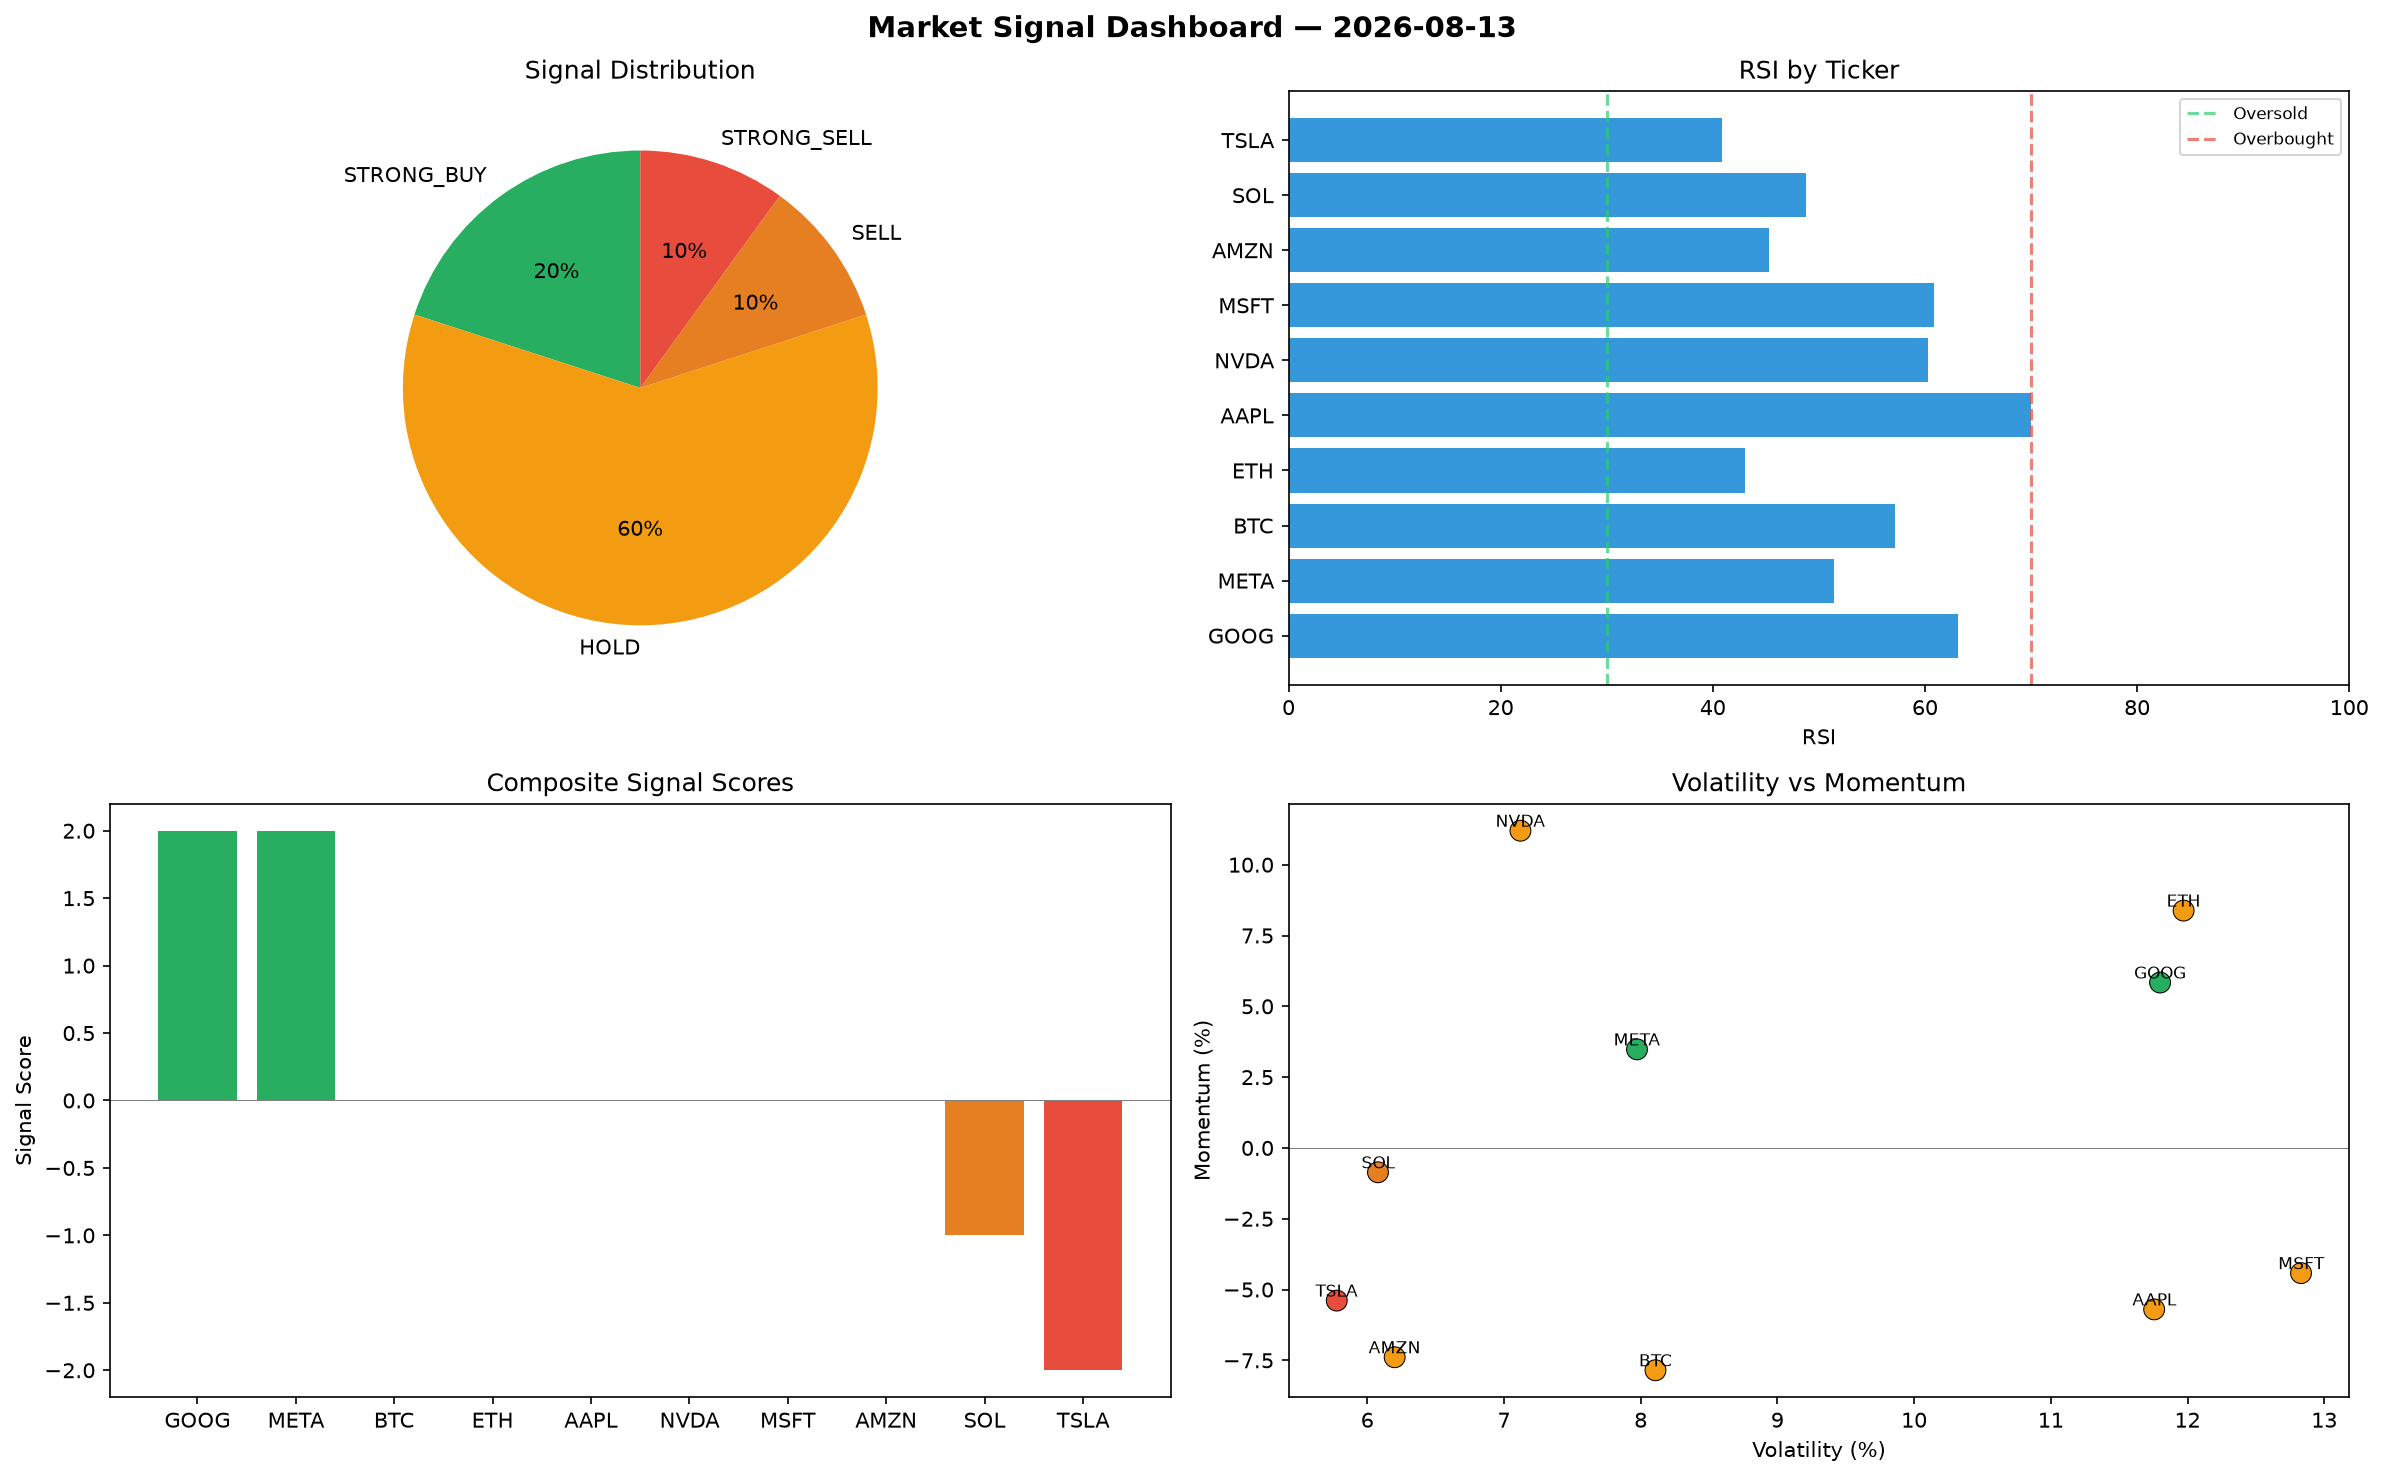
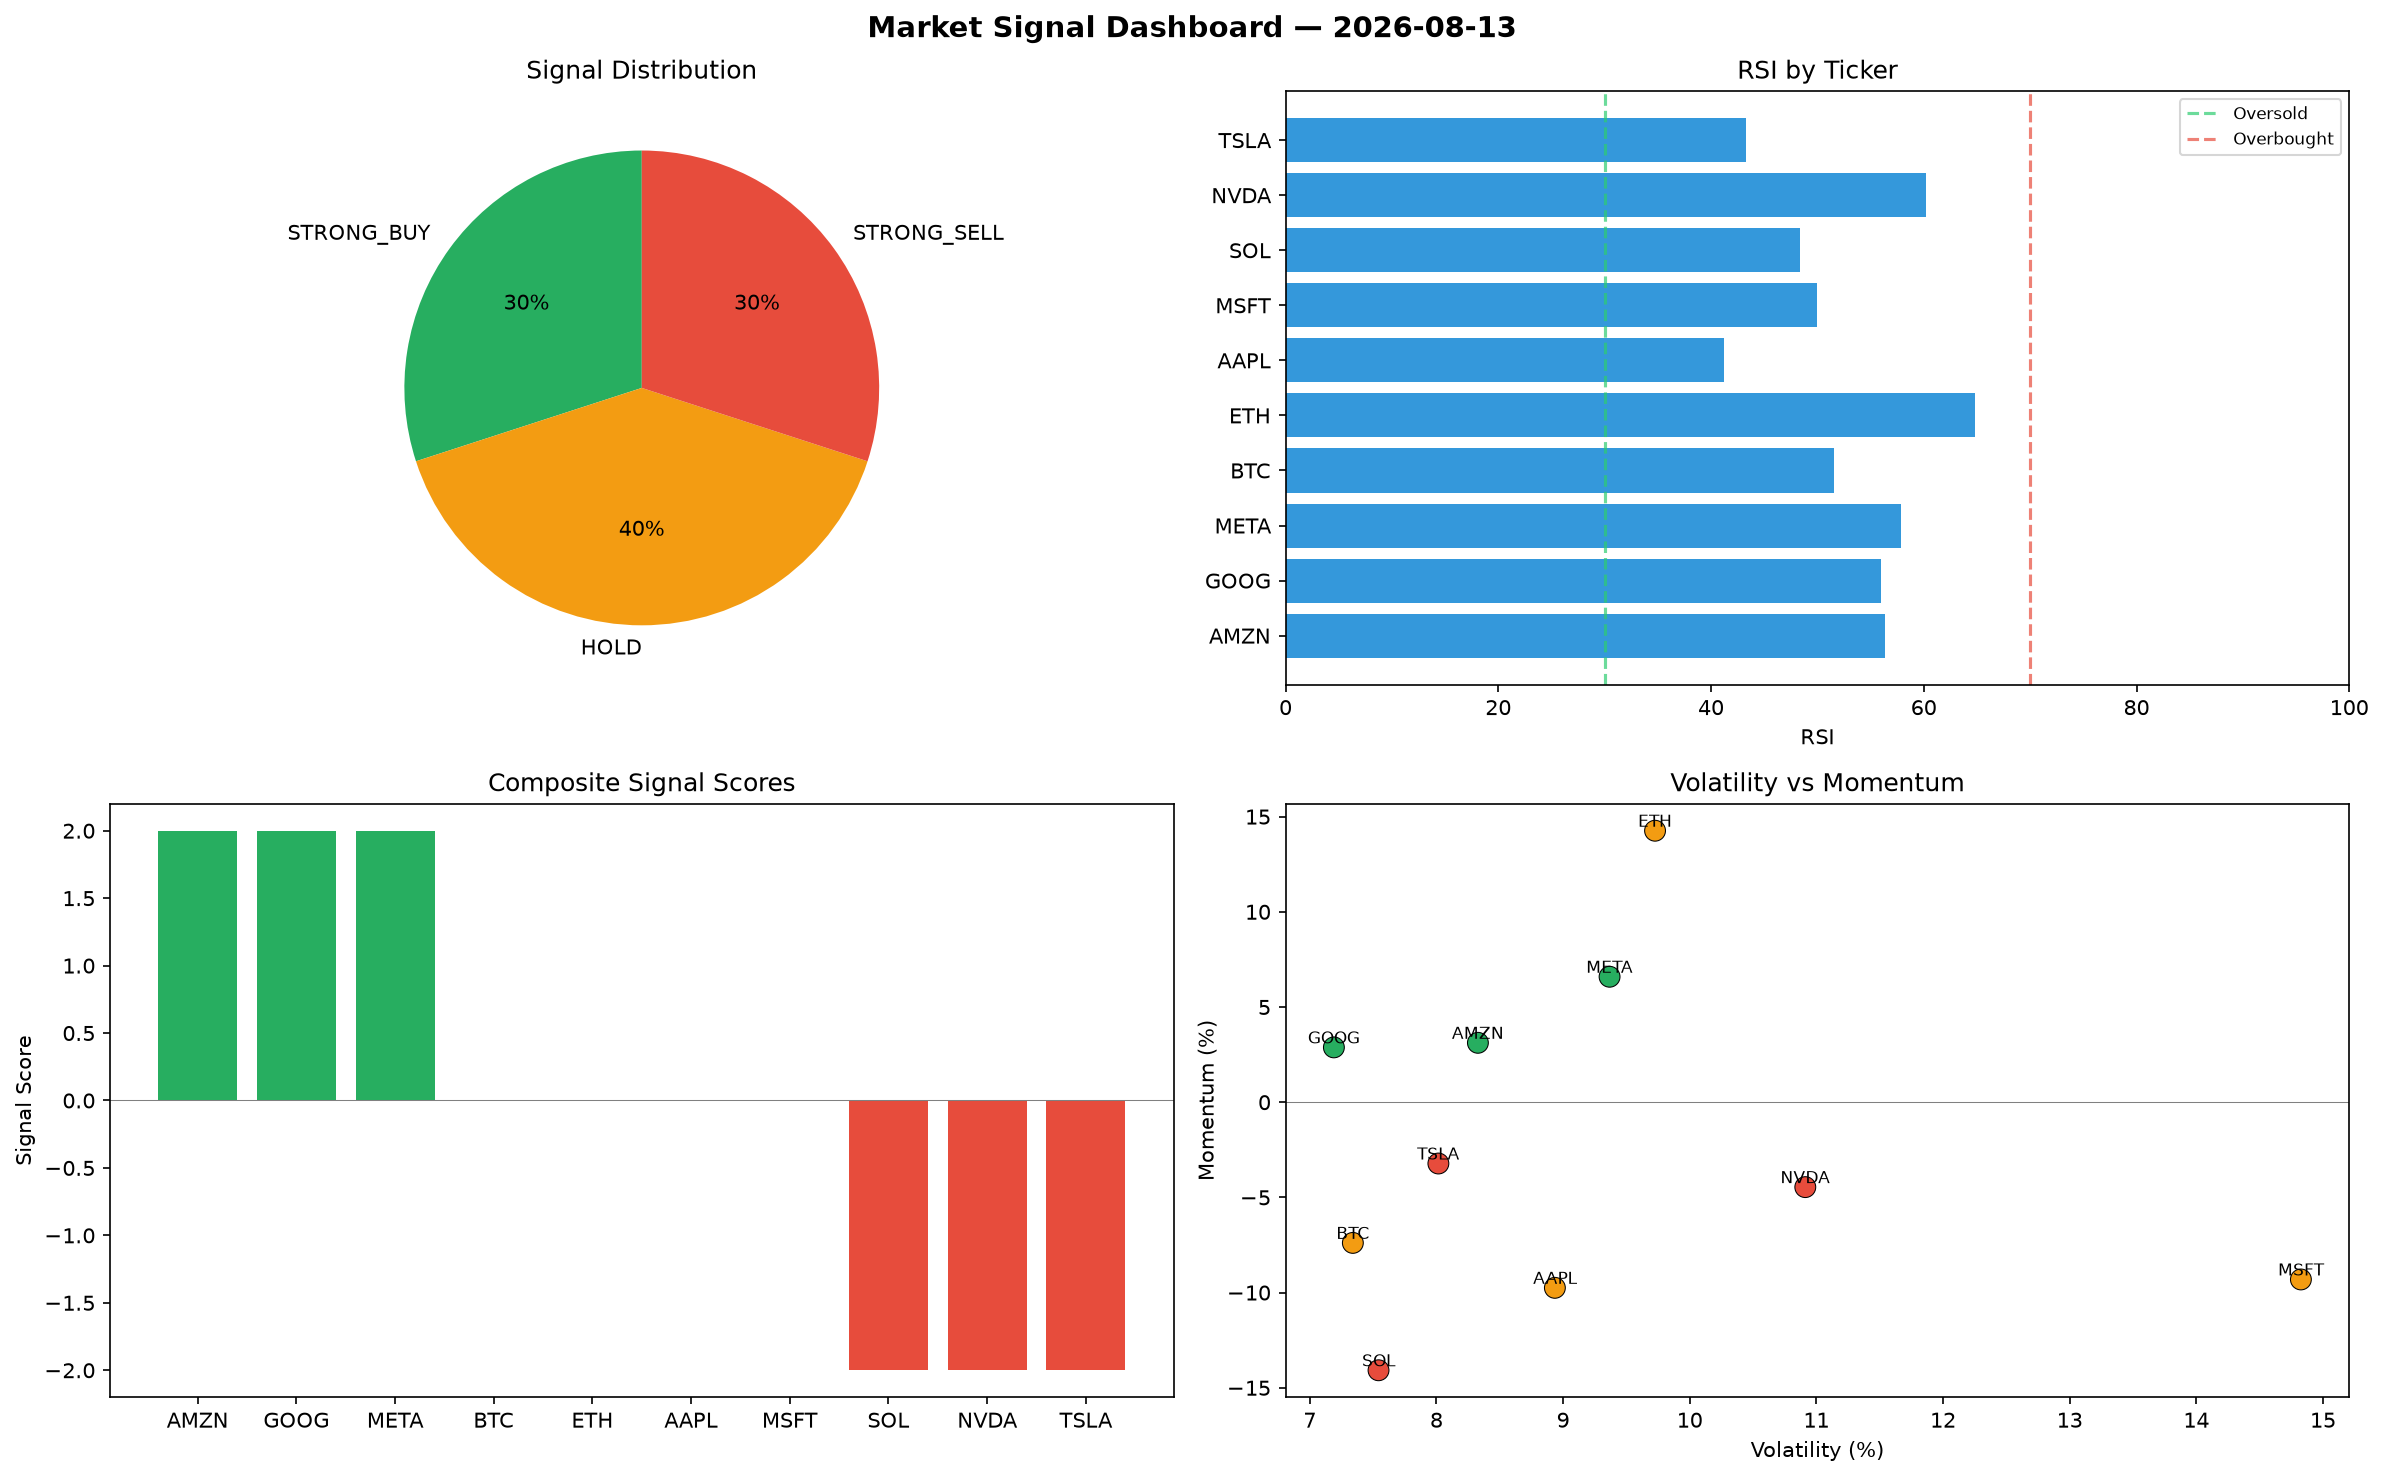
automated-bots: market signals 2026-08-13T09:38

diff --git a/logs/2026-08-13.md b/logs/2026-08-13.md
@@ -1,6 +1,6 @@
 # Market Signal Report — 2026-08-13
 
-**Run ID:** `3cc94a221d` | **Buy:** 2 | **Sell:** 2 | **Hold:** 6
+**Run ID:** `81914552b6` | **Buy:** 3 | **Sell:** 3 | **Hold:** 4
 
 ![Dashboard](2026-08-13_dashboard.png)
 
@@ -8,28 +8,28 @@
 
 | Ticker | Price | Signal | Score | RSI | Momentum | Confidence |
 |--------|-------|--------|-------|-----|----------|------------|
-| GOOG | $867.04 | **STRONG_BUY** | 2 | 63.09 | 0.0584 | 0.5 |
-| META | $5090.48 | **STRONG_BUY** | 2 | 51.47 | 0.0348 | 0.5 |
-| BTC | $592.81 | **HOLD** | 0 | 57.19 | -0.0785 | 0.0 |
-| ETH | $2065.89 | **HOLD** | 0 | 43.05 | 0.0838 | 0.0 |
-| AAPL | $4761.04 | **HOLD** | 0 | 70.0 | -0.057 | 0.0 |
-| NVDA | $1699.64 | **HOLD** | 0 | 60.26 | 0.112 | 0.0 |
-| MSFT | $180.1 | **HOLD** | 0 | 60.83 | -0.0442 | 0.0 |
-| AMZN | $4205.1 | **HOLD** | 0 | 45.34 | -0.0739 | 0.0 |
-| SOL | $3793.8 | **SELL** | -1 | 48.74 | -0.0086 | 0.25 |
-| TSLA | $4290.13 | **STRONG_SELL** | -2 | 40.83 | -0.0539 | 0.5 |
+| AMZN | $2568.27 | **STRONG_BUY** | 2 | 56.39 | 0.0312 | 0.5 |
+| GOOG | $4387.34 | **STRONG_BUY** | 2 | 55.96 | 0.0288 | 0.5 |
+| META | $1343.99 | **STRONG_BUY** | 2 | 57.9 | 0.0659 | 0.5 |
+| BTC | $2829.76 | **HOLD** | 0 | 51.52 | -0.0739 | 0.0 |
+| ETH | $1617.16 | **HOLD** | 0 | 64.86 | 0.1426 | 0.0 |
+| AAPL | $2744.11 | **HOLD** | 0 | 41.19 | -0.0975 | 0.0 |
+| MSFT | $1328.78 | **HOLD** | 0 | 49.92 | -0.0931 | 0.0 |
+| SOL | $4028.61 | **STRONG_SELL** | -2 | 48.36 | -0.1408 | 0.5 |
+| NVDA | $4670.3 | **STRONG_SELL** | -2 | 60.22 | -0.0446 | 0.5 |
+| TSLA | $839.94 | **STRONG_SELL** | -2 | 43.33 | -0.0322 | 0.5 |
 
 ## Delta vs Yesterday
 
 | Ticker | Today | Yesterday | Price Change | Signal Changed |
 |--------|-------|-----------|-------------|----------------|
-| GOOG | STRONG_BUY | STRONG_BUY | 📈 176.44% | — |
-| META | STRONG_BUY | STRONG_SELL | 📈 341.44% | ⚠ YES |
-| BTC | HOLD | STRONG_SELL | 📉 -82.98% | ⚠ YES |
-| ETH | HOLD | BUY | 📉 -29.07% | ⚠ YES |
-| AAPL | HOLD | STRONG_SELL | 📈 930.66% | ⚠ YES |
-| NVDA | HOLD | STRONG_BUY | 📉 -29.7% | ⚠ YES |
-| MSFT | HOLD | STRONG_SELL | 📉 -95.6% | ⚠ YES |
-| AMZN | HOLD | HOLD | 📈 183.26% | — |
-| SOL | SELL | SELL | 📈 150.1% | — |
-| TSLA | STRONG_SELL | SELL | 📈 319.71% | ⚠ YES |
+| AMZN | STRONG_BUY | HOLD | 📈 73.0% | ⚠ YES |
+| GOOG | STRONG_BUY | STRONG_BUY | 📈 1298.8% | — |
+| META | STRONG_BUY | STRONG_SELL | 📈 16.55% | ⚠ YES |
+| BTC | HOLD | STRONG_SELL | 📉 -18.74% | ⚠ YES |
+| ETH | HOLD | BUY | 📉 -44.47% | ⚠ YES |
+| AAPL | HOLD | STRONG_SELL | 📈 494.04% | ⚠ YES |
+| MSFT | HOLD | STRONG_SELL | 📉 -67.56% | ⚠ YES |
+| SOL | STRONG_SELL | SELL | 📈 165.58% | ⚠ YES |
+| NVDA | STRONG_SELL | STRONG_BUY | 📈 93.16% | ⚠ YES |
+| TSLA | STRONG_SELL | SELL | 📉 -17.83% | ⚠ YES |
